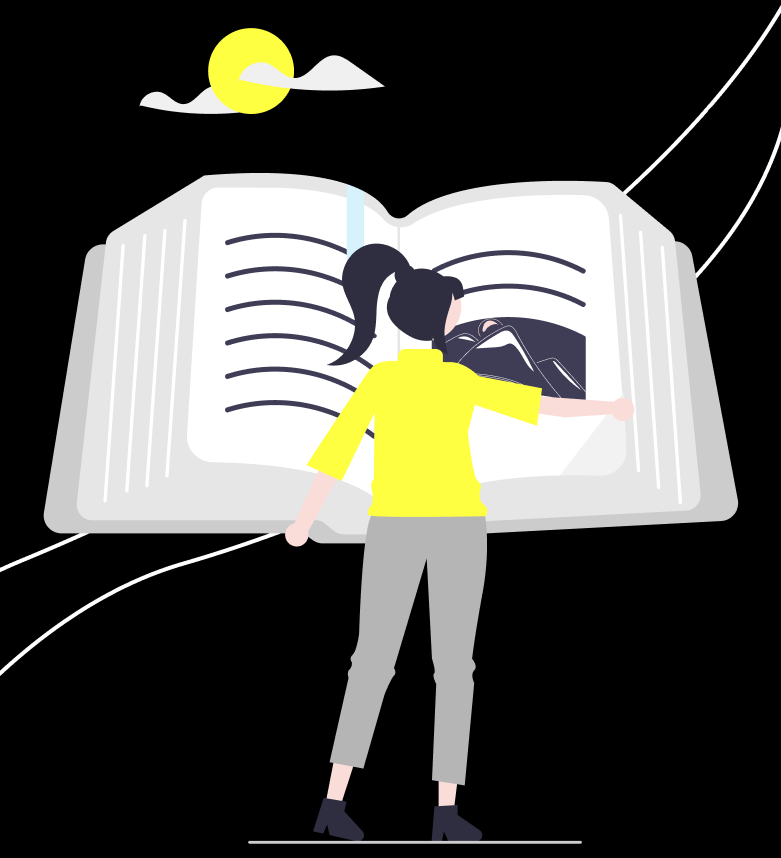
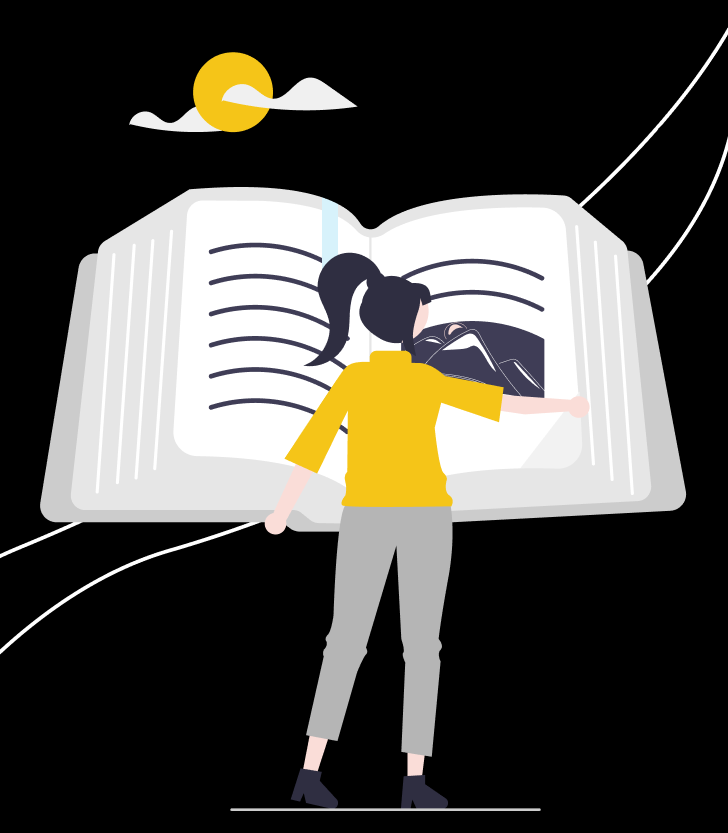
litte changes

diff --git a/public/404.html b/public/404.html
@@ -31,12 +31,12 @@
         h1 {
             font-size: 3em;
             margin-bottom: 20px;
-            color: #efef24;
+            color: #f5c518;
         }
 
         .error-message {
             font-size: 1.5em; /* Taille du texte de la mention */
-            color: #efef24; /* Couleur discrète */
+            color: #f5c518; /* Couleur discrète */
             margin-bottom: 20px; /* Espace sous la mention */
         }
 
@@ -49,7 +49,7 @@
             display: inline-block;
             margin-top: 20px;
             padding: 10px 20px;
-            background-color: #efef24;
+            background-color: #f5c518;
             color: #000;
             text-decoration: none;
             border-radius: 5px;
@@ -79,7 +79,7 @@
       <!-- <div class="error-message" style="font-size: 0.9em; font-style: italic;">Page Not Found</div> -->
[1 lines of base64/hex data omitted]
 
-      <p>“Always remember, Frodo, the <span style="color: #efef24;">suggestion</span> is trying to get back to its master. It wants to be found.”</p>
+      <p>“Always remember, Frodo, the <span style="color: #f5c518;">suggestion</span> is trying to get back to its master. It wants to be found.”</p>
       <p style="font-size: 0.9em; font-style: italic;">Gandalf, The Lord of the Rings: The Fellowship of the Ring (2001)</p>
 
       <a href="/">Go Home</a>

diff --git a/public/500.html b/public/500.html
@@ -31,7 +31,7 @@
         h1 {
             font-size: 3em;
             margin-bottom: 20px;
-            color: #efef24;
+            color: #f5c518;
         }
 
         p {
@@ -43,7 +43,7 @@
             display: inline-block;
             margin-top: 20px;
             padding: 10px 20px;
-            background-color: #efef24;
+            background-color: #f5c518;
             color: #000;
             text-decoration: none;
             border-radius: 5px;
@@ -72,7 +72,7 @@
       <h1>500</h1>
[1 lines of base64/hex data omitted]
 
-      <p>“Always remember, Frodo, the <span style="color: #efef24;">suggestion</span> is trying to get back to its master. It wants to be found.”</p>
+      <p>“Always remember, Frodo, the <span style="color: #f5c518;">suggestion</span> is trying to get back to its master. It wants to be found.”</p>
       <p style="font-size: 0.9em; font-style: italic;">Gandalf, The Lord of the Rings: The Fellowship of the Ring (2001)</p>
 
       <a href="/">Go Home</a>

diff --git a/app/assets/stylesheets/pages/_home.scss b/app/assets/stylesheets/pages/_home.scss
@@ -54,7 +54,7 @@
   content: "";
   display: block;
   width: 50vw;
-  border-bottom: 10px solid #EFEF24;
+  border-bottom: 10px solid #F5C518;
   position: absolute;
   bottom: 0;
   left: 50%;
@@ -66,7 +66,7 @@
   content: "";
   display: block;
   width: 50vw;
-  border-bottom: 10px solid #EFEF24;
+  border-bottom: 10px solid #F5C518;
   position: absolute;
   bottom: 0;
   left: 50%;
@@ -77,7 +77,7 @@
   content: "";
   display: block;
   width: 50vw;
-  border-bottom: 10px solid #EFEF24;
+  border-bottom: 10px solid #F5C518;
   position: absolute;
   bottom: 0;
   left: 50%;

diff --git a/app/assets/stylesheets/pages/_favorites.scss b/app/assets/stylesheets/pages/_favorites.scss
@@ -8,7 +8,7 @@
 }
 
 #mark-as-read-button {
-  background-color: #EFEF24;
+  background-color: #F5C518;
   width: 20vw;
   display: flex;
   justify-content: center;
@@ -17,7 +17,7 @@
 }
 
 #remove-from-read-button {
-  background-color: #EFEF24;
+  background-color: #F5C518;
   width: 40vw;
   display: flex;
   justify-content: center;

diff --git a/app/assets/stylesheets/components/_onglet_active.scss b/app/assets/stylesheets/components/_onglet_active.scss
@@ -8,7 +8,7 @@
 .nav-link.active {
 border: 5px solid rgb(57, 55, 55) !important;
 background-color: rgb(57, 55, 55) !important;
-color: rgb(239, 239, 36) !important;
+color: #F5C518 !important;
 border-radius: 50px ;
 }
 .nav.nav-tabs{

diff --git a/app/assets/stylesheets/config/_bootstrap_variables.scss b/app/assets/stylesheets/config/_bootstrap_variables.scss
@@ -14,7 +14,7 @@ $font-size-base:         1rem;
 $body-color: black;
 $primary:    white;
 $success:    rgb(57, 55, 55);
-$info:       rgb(239, 239, 36);
+$info:       #F5C518;
 $danger:     $red;
 $warning:    rgb(184, 179, 179);
 

diff --git a/app/assets/stylesheets/components/_navbar.scss b/app/assets/stylesheets/components/_navbar.scss
@@ -31,7 +31,7 @@
   color: darkgray;
 } */
 .yellowcolor{
-  color:rgb(239, 239, 36);
+  color:#F5C518;
 }
 .container-fluid {
   background-color: black;
